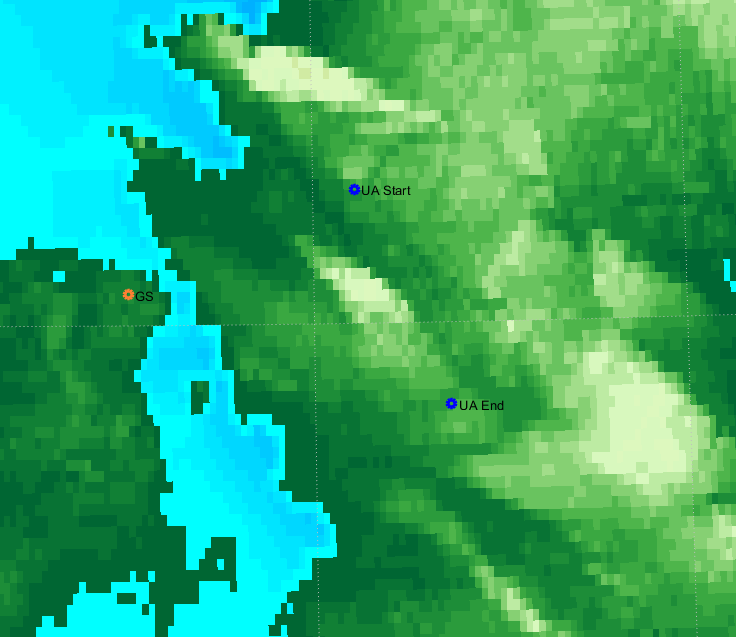
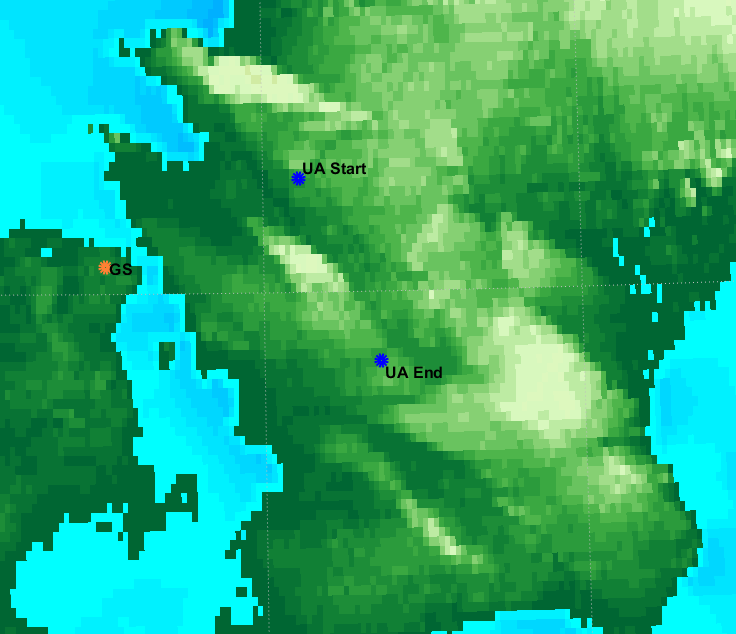
figures

diff --git a/src/matlab/3D_system_simulation/WGS84_3D_UAS_User_Friendly.m b/src/matlab/3D_system_simulation/WGS84_3D_UAS_User_Friendly.m
@@ -111,11 +111,11 @@ geoshow(ZA, RA, 'DisplayType', 'texturemap')
 demcmap(double(ZA))
 title({'Northen Europe - Topographic Map'});
 % [lat1, long1] = inputm(1);                   % Input GS and UA locations
-plotm(lat1,long1,'o','Color',[1 0.5 0.2],'LineWidth',3);textm(lat1,long1,'  GS');
+plotm(lat1,long1,'o','Color',[1 0.5 0.2],'LineWidth',5);textm(lat1,long1,' GS','FontSize',12,'FontWeight','bold','VerticalAlignment','middle');
 % [lat2, long2] = inputm(1);
-plotm(lat2,long2,'bo','LineWidth',3);textm(lat2,long2,'  UA Start');
+plotm(lat2,long2,'bo','LineWidth',5);textm(lat2,long2,' UA Start','FontSize',12,'FontWeight','bold','VerticalAlignment','bottom');
 % [lat3, long3] = inputm(1);
-plotm(lat3,long3,'bo','LineWidth',3);textm(lat3,long3,'  UA End');
+plotm(lat3,long3,'bo','LineWidth',5);textm(lat3,long3,' UA End','FontSize',12,'FontWeight','bold','VerticalAlignment','top');
 % GSPOS = [lat1, long1];
 % UASTART = [lat2,long2];
 % UAEND = [lat3,long3];
